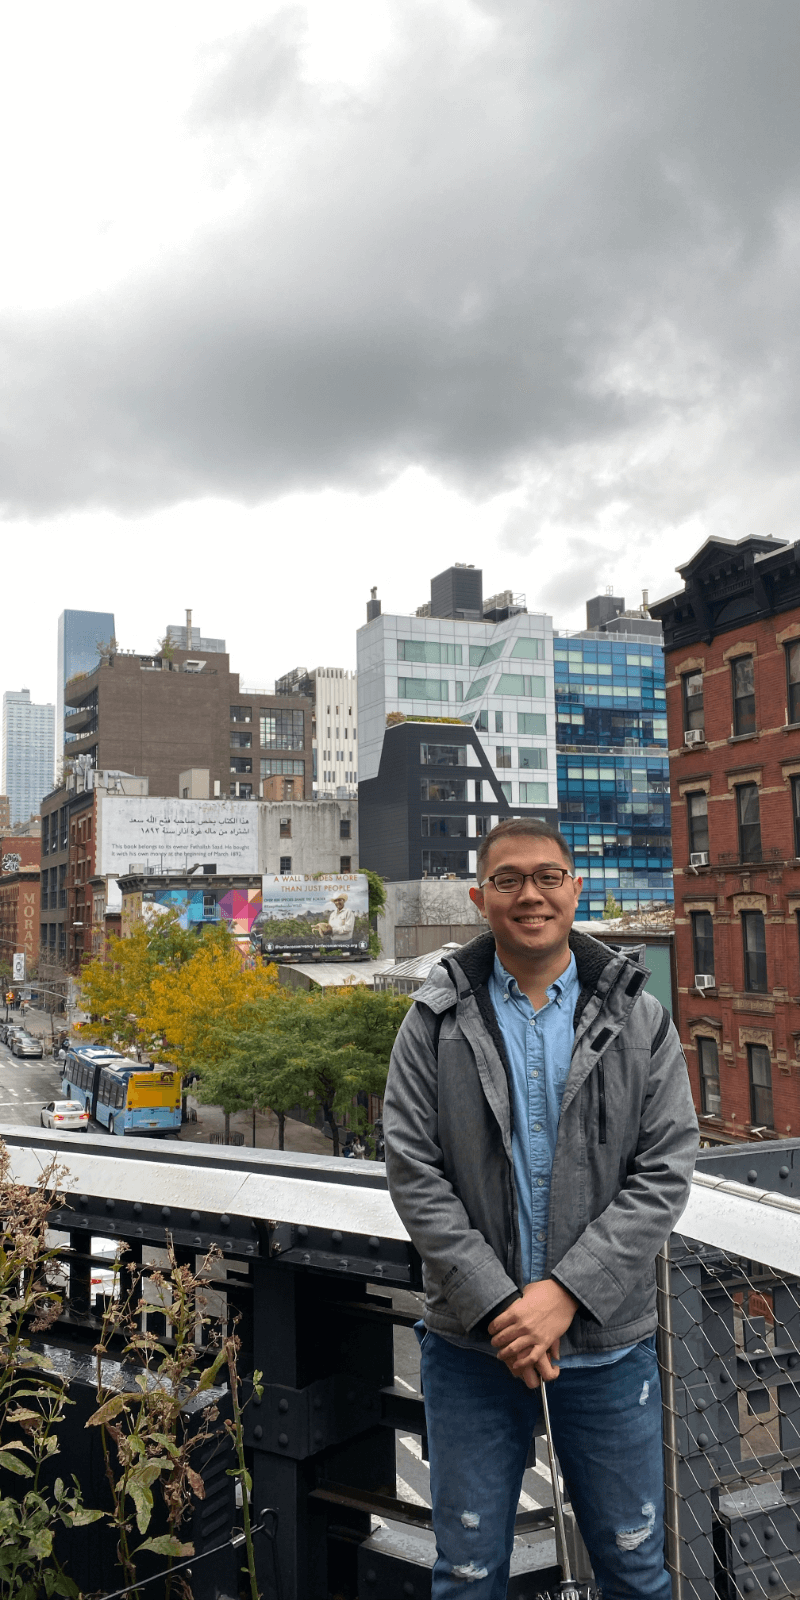
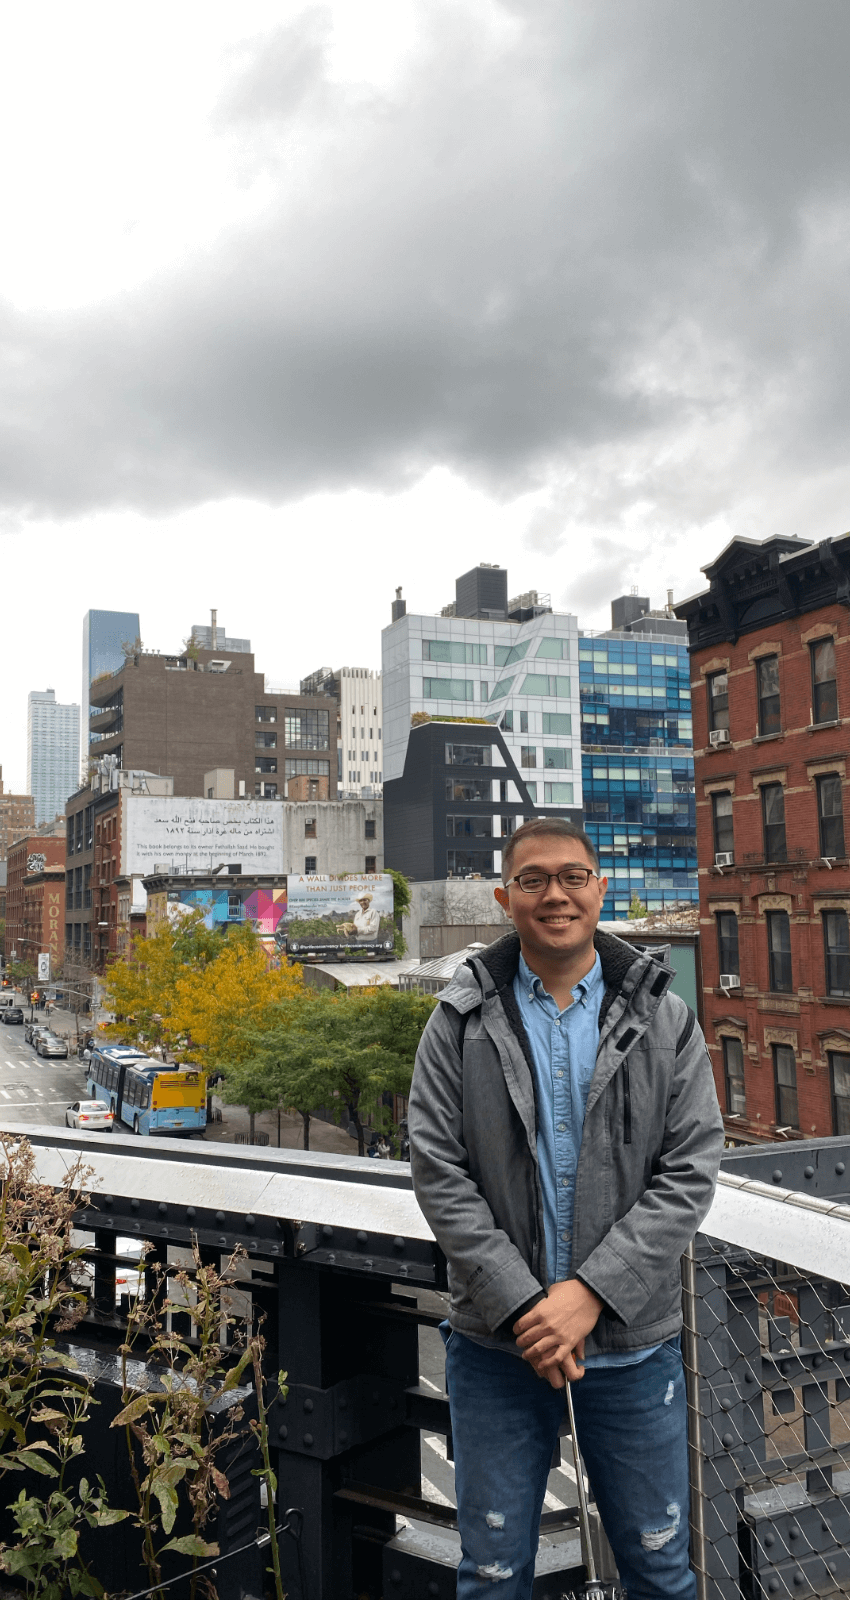
make it better

diff --git a/src/Assets/css/styles.min.css b/src/Assets/css/styles.min.css
@@ -1,1 +1,1 @@
-html{font-size:16px}body{font-family:Roboto,'Open Sans',sans-serif}a{text-decoration-line:none;cursor:pointer}@media all and (min-width:1680px){h1{font-size:4.5rem}}@media all and (min-width:1480px) and (max-width:1680px){h1{font-size:4.5rem}}@media all and (max-width:1480px){h1{font-size:3rem}}@media all and (min-width:1680px){h2{font-size:3.5rem}}@media all and (min-width:1480px) and (max-width:1680px){h2{font-size:3.5rem}}@media all and (max-width:1480px){h2{font-size:2.25rem}}@media all and (min-width:1680px){h3{font-size:2.3rem}}@media all and (min-width:1480px) and (max-width:1680px){h3{font-size:2.3rem}}@media all and (max-width:1480px){h3{font-size:1.75rem}}@media all and (min-width:1680px){h4{font-size:1.8rem}}@media all and (min-width:1480px) and (max-width:1680px){h4{font-size:1.8rem}}@media all and (max-width:1480px){h4{font-size:1.125rem}}@media all and (min-width:1680px){p{font-size:1rem}}@media all and (min-width:1480px) and (max-width:1680px){p{font-size:1rem}}@media all and (max-width:1480px){p{font-size:1rem}}.basicBtn{color:#fff;background:#000;padding:15px 60px;border:2px solid #000;font-size:20px;-webkit-transition:.2s ease;-moz-transition:.2s ease;transition:.2s ease}.basicBtn:hover{color:#fff;background:#000;color:#000;background:#fff}.basicBtn_reverse{color:#000;background:#fff;padding:15px 60px;border:2px solid #000;font-size:20px;-webkit-transition:.2s ease;-moz-transition:.2s ease;transition:.2s ease}.basicBtn_reverse:hover{color:#000;background:#fff;color:#fff;background:#000}.spinner{animation:rotator 1.4s linear infinite}@keyframes rotator{0%{transform:rotate(0)}100%{transform:rotate(270deg)}}.path{stroke-dasharray:187;stroke-dashoffset:0;transform-origin:center;animation:dash 1.4s ease-in-out infinite,colors 5.6s ease-in-out infinite}@keyframes colors{0%{stroke:#4285f4}25%{stroke:#de3e35}50%{stroke:#f7c223}75%{stroke:#1b9a59}100%{stroke:#4285f4}}@keyframes dash{0%{stroke-dashoffset:187}50%{stroke-dashoffset:46.75;transform:rotate(135deg)}100%{stroke-dashoffset:187;transform:rotate(450deg)}}.loading{height:100vh;display:flex;align-items:center;justify-content:center}.notFound{height:calc(100vh - 200px);display:flex;align-items:center;justify-content:center}html{font-size:16px}body{font-family:Roboto,'Open Sans',sans-serif}a{text-decoration-line:none;cursor:pointer}@media all and (min-width:1680px){h1{font-size:4.5rem}}@media all and (min-width:1480px) and (max-width:1680px){h1{font-size:4.5rem}}@media all and (max-width:1480px){h1{font-size:3rem}}@media all and (min-width:1680px){h2{font-size:3.5rem}}@media all and (min-width:1480px) and (max-width:1680px){h2{font-size:3.5rem}}@media all and (max-width:1480px){h2{font-size:2.25rem}}@media all and (min-width:1680px){h3{font-size:2.3rem}}@media all and (min-width:1480px) and (max-width:1680px){h3{font-size:2.3rem}}@media all and (max-width:1480px){h3{font-size:1.75rem}}@media all and (min-width:1680px){h4{font-size:1.8rem}}@media all and (min-width:1480px) and (max-width:1680px){h4{font-size:1.8rem}}@media all and (max-width:1480px){h4{font-size:1.125rem}}@media all and (min-width:1680px){p{font-size:1rem}}@media all and (min-width:1480px) and (max-width:1680px){p{font-size:1rem}}@media all and (max-width:1480px){p{font-size:1rem}}.header{display:flex;flex-direction:row;height:100vh;width:100%}.header .header-left{display:flex;flex-direction:row}@media all and (min-width:1680px){.header .header-left{width:calc(100% - 1100px)}}@media all and (min-width:1480px) and (max-width:1680px){.header .header-left{width:calc(100% - 900px)}}@media all and (max-width:1480px){.header .header-left{width:calc(100% - 620px)}}.header .header-left .header-left-left{display:flex;flex-direction:column;align-items:flex-start;justify-content:space-between;font-family:'Playfair Display',serif}@media all and (min-width:1680px){.header .header-left .header-left-left{padding:60px 0 60px 60px}}@media all and (min-width:1480px) and (max-width:1680px){.header .header-left .header-left-left{padding:60px 0 60px 60px}}@media all and (max-width:1480px){.header .header-left .header-left-left{padding:30px 0 30px 30px}}.header .header-left .header-left-left .detail h1{margin:0;letter-spacing:5px}.header .header-left .header-left-left .detail h4{margin:10px 0}.header .header-left .header-left-left .logo{width:100px;height:100px}.header .header-left .header-left-left .welcome h1{margin:10px 0;letter-spacing:5px}.header .header-left .header-left-left .welcome h4{margin:10px 0}.header .header-left .header-left-left .basicBtn,.header .header-left .header-left-left .basicBtn_reverse{display:inline-block;margin-top:10px}.header .header-left .header-left-left .btn-group{display:flex;flex-direction:row}.header .header-left .header-left-left .btn-group a{margin-right:15px}.header .header-right{font-family:'Ibarra Real Nova',serif;display:flex;flex-direction:row}@media all and (min-width:1680px){.header .header-right{width:1100px}}@media all and (min-width:1480px) and (max-width:1680px){.header .header-right{width:900px}}@media all and (max-width:1480px){.header .header-right{width:620px}}.header .header-right .header-right-left{height:100vh;display:flex;flex-direction:column;justify-content:center;align-items:center}@media all and (min-width:1680px){.header .header-right .header-right-left{width:160px}}@media all and (min-width:1480px) and (max-width:1680px){.header .header-right .header-right-left{width:130px}}@media all and (max-width:1480px){.header .header-right .header-right-left{width:100px}}.header .header-right .header-right-left .developer{font-weight:700;font-family:'Playfair Display',serif;color:#f0f0f0;transform:rotate(-90deg);margin:0;letter-spacing:10px}@media all and (min-width:1680px){.header .header-right .header-right-left .developer{font-size:140px}}@media all and (min-width:1480px) and (max-width:1680px){.header .header-right .header-right-left .developer{font-size:120px}}@media all and (max-width:1480px){.header .header-right .header-right-left .developer{font-size:100px}}.header .header-right .me{height:99%;margin-top:.5%}.header .header-right .name{display:flex;align-items:center;justify-content:center}@media all and (min-width:1680px){.header .header-right .name{width:100%}}@media all and (min-width:1480px) and (max-width:1680px){.header .header-right .name{width:100%}}@media all and (max-width:1480px){.header .header-right .name{width:100%}}.header .header-right .name p{color:#000;font-size:40px;transform:rotate(90deg)}.professional{display:flex;flex-direction:column;align-items:center;width:100%;font-family:'Playfair Display',serif}.professional h1{font-size:60px;letter-spacing:5px}.professional .professional-section{width:100%;display:flex;flex-direction:row;flex-wrap:wrap}.professional .professional-section .professional-part{box-sizing:border-box;position:relative;width:42.5%;box-shadow:0 10px 20px rgba(0,0,0,.103),0 6px 6px rgba(0,0,0,.164);padding:60px;margin-bottom:60px;margin-left:5%}.professional .professional-section .professional-part span{position:absolute;top:-25px;left:-25px}.professional .professional-section .professional-part span img{width:50px;-webkit-transition:.4s ease;-moz-transition:.4s ease;transition:.4s ease}.professional .professional-section .professional-part span img:hover{opacity:.7}.professional .professional-section .professional-part .company-detail{display:flex;flex-direction:row;justify-content:space-between}.professional .professional-section .professional-part h1{font-size:36px;margin:0}.professional .professional-section .professional-part h3{font-size:20px;color:#b9b9b9;margin:0}@media all and (min-width:1680px){.professional .professional-section .professional-part .works{width:400px}}@media all and (min-width:1480px) and (max-width:1680px){.professional .professional-section .professional-part .works{width:400px}}@media all and (max-width:1480px){.professional .professional-section .professional-part .works{width:300px}}@media all and (min-width:1680px){.professional .professional-section .professional-part .works-mobile{width:180px}}@media all and (min-width:1480px) and (max-width:1680px){.professional .professional-section .professional-part .works-mobile{width:180px}}@media all and (max-width:1480px){.professional .professional-section .professional-part .works-mobile{width:150px}}@media all and (min-width:1680px){.professional .professional-section .professional-part .works-big{width:700px}}@media all and (min-width:1480px) and (max-width:1680px){.professional .professional-section .professional-part .works-big{width:550px}}@media all and (max-width:1480px){.professional .professional-section .professional-part .works-big{width:450px}}.professional .professional-section .professional-part .image{display:flex;align-items:center;justify-content:center;height:450px}.academic{display:flex;box-sizing:border-box;flex-direction:column;align-items:center;width:100%;font-family:'Playfair Display',serif;padding:0 5%}.academic h1{font-size:36px;letter-spacing:5px}.academic .academic-section{column-count:2;column-gap:5%;width:100%}.academic .academic-section .academic-part{display:inline-block;width:100%;box-sizing:border-box;padding:60px 50px 50px 50px;border:2px solid #000;margin-bottom:60px;position:relative}.academic .academic-section .academic-part .school-detail{display:flex;flex-direction:row;justify-content:space-between;color:#979696}@media all and (min-width:1680px){.academic .academic-section .academic-part .aca-image{display:flex;flex-direction:row;align-items:center;justify-content:space-around;margin:60px 0}}@media all and (min-width:1480px) and (max-width:1680px){.academic .academic-section .academic-part .aca-image{display:flex;flex-direction:row;align-items:center;justify-content:space-around;margin:60px 0}}@media all and (max-width:1480px){.academic .academic-section .academic-part .aca-image{display:flex;flex-direction:column;align-items:center;justify-content:space-around;margin:60px 0}}.academic .academic-section .academic-part .aca-title{position:absolute;top:-2px;left:-2px;margin:0;background:#fff;z-index:999;padding-left:70px}.academic .academic-section .academic-part .aca-title:before{content:"";position:absolute;height:100%;width:50px;background:#000;left:0}.academic .academic-section .academic-part .image-aca{width:400px}.academic .academic-section .academic-part .image-aca-mobile{width:180px}@media all and (min-width:1680px){.academic .academic-section .academic-part .image-aca-mobile{width:180px}}@media all and (min-width:1480px) and (max-width:1680px){.academic .academic-section .academic-part .image-aca-mobile{width:180px}}@media all and (max-width:1480px){.academic .academic-section .academic-part .image-aca-mobile{width:180px;margin-top:60px}}.academic .academic-section .academic-part .aca-link{float:right}.academic .academic-section .academic-part .aca-link img{margin-right:20px;width:50px;-webkit-transition:.4s ease;-moz-transition:.4s ease;transition:.4s ease}.academic .academic-section .academic-part .aca-link img:hover{opacity:.7}
+html{font-size:16px}body{font-family:Roboto,'Open Sans',sans-serif}a{text-decoration-line:none;cursor:pointer}@media all and (min-width:1680px){h1{font-size:4.5rem}}@media all and (min-width:1480px) and (max-width:1680px){h1{font-size:4.5rem}}@media all and (max-width:1480px){h1{font-size:3rem}}@media all and (min-width:1680px){h2{font-size:3.5rem}}@media all and (min-width:1480px) and (max-width:1680px){h2{font-size:3.5rem}}@media all and (max-width:1480px){h2{font-size:2.25rem}}@media all and (min-width:1680px){h3{font-size:2.3rem}}@media all and (min-width:1480px) and (max-width:1680px){h3{font-size:2.3rem}}@media all and (max-width:1480px){h3{font-size:1.75rem}}@media all and (min-width:1680px){h4{font-size:1.8rem}}@media all and (min-width:1480px) and (max-width:1680px){h4{font-size:1.8rem}}@media all and (max-width:1480px){h4{font-size:1.125rem}}@media all and (min-width:1680px){p{font-size:1rem}}@media all and (min-width:1480px) and (max-width:1680px){p{font-size:1rem}}@media all and (max-width:1480px){p{font-size:1rem}}.basicBtn{color:#fff;background:#000;padding:15px 60px;border:2px solid #000;font-size:20px;-webkit-transition:.2s ease;-moz-transition:.2s ease;transition:.2s ease}.basicBtn:hover{color:#fff;background:#000;color:#000;background:#fff}.basicBtn_reverse{color:#000;background:#fff;padding:15px 60px;border:2px solid #000;font-size:20px;-webkit-transition:.2s ease;-moz-transition:.2s ease;transition:.2s ease}.basicBtn_reverse:hover{color:#000;background:#fff;color:#fff;background:#000}.spinner{animation:rotator 1.4s linear infinite}@keyframes rotator{0%{transform:rotate(0)}100%{transform:rotate(270deg)}}.path{stroke-dasharray:187;stroke-dashoffset:0;transform-origin:center;animation:dash 1.4s ease-in-out infinite,colors 5.6s ease-in-out infinite}@keyframes colors{0%{stroke:#4285f4}25%{stroke:#de3e35}50%{stroke:#f7c223}75%{stroke:#1b9a59}100%{stroke:#4285f4}}@keyframes dash{0%{stroke-dashoffset:187}50%{stroke-dashoffset:46.75;transform:rotate(135deg)}100%{stroke-dashoffset:187;transform:rotate(450deg)}}.loading{height:100vh;display:flex;align-items:center;justify-content:center}.notFound{height:calc(100vh - 200px);display:flex;align-items:center;justify-content:center}html{font-size:16px}body{font-family:Roboto,'Open Sans',sans-serif}a{text-decoration-line:none;cursor:pointer}@media all and (min-width:1680px){h1{font-size:4.5rem}}@media all and (min-width:1480px) and (max-width:1680px){h1{font-size:4.5rem}}@media all and (max-width:1480px){h1{font-size:3rem}}@media all and (min-width:1680px){h2{font-size:3.5rem}}@media all and (min-width:1480px) and (max-width:1680px){h2{font-size:3.5rem}}@media all and (max-width:1480px){h2{font-size:2.25rem}}@media all and (min-width:1680px){h3{font-size:2.3rem}}@media all and (min-width:1480px) and (max-width:1680px){h3{font-size:2.3rem}}@media all and (max-width:1480px){h3{font-size:1.75rem}}@media all and (min-width:1680px){h4{font-size:1.8rem}}@media all and (min-width:1480px) and (max-width:1680px){h4{font-size:1.8rem}}@media all and (max-width:1480px){h4{font-size:1.125rem}}@media all and (min-width:1680px){p{font-size:1rem}}@media all and (min-width:1480px) and (max-width:1680px){p{font-size:1rem}}@media all and (max-width:1480px){p{font-size:1rem}}.header{display:flex;flex-direction:row;height:100vh;width:100%}.header .header-left{display:flex;flex-direction:row}@media all and (min-width:1680px){.header .header-left{width:calc(100% - 1100px)}}@media all and (min-width:1480px) and (max-width:1680px){.header .header-left{width:calc(100% - 900px)}}@media all and (max-width:1480px){.header .header-left{width:calc(100% - 650px)}}.header .header-left .header-left-left{display:flex;flex-direction:column;align-items:flex-start;justify-content:space-between;font-family:'Playfair Display',serif}@media all and (min-width:1680px){.header .header-left .header-left-left{padding:60px 0 60px 60px}}@media all and (min-width:1480px) and (max-width:1680px){.header .header-left .header-left-left{padding:60px 0 60px 60px}}@media all and (max-width:1480px){.header .header-left .header-left-left{padding:30px 0 30px 30px}}.header .header-left .header-left-left .detail h1{margin:0;letter-spacing:5px}.header .header-left .header-left-left .detail h4{margin:10px 0}.header .header-left .header-left-left .logo{width:100px;height:100px}.header .header-left .header-left-left .welcome h1{margin:10px 0;letter-spacing:5px}.header .header-left .header-left-left .welcome h4{margin:10px 0}.header .header-left .header-left-left .basicBtn,.header .header-left .header-left-left .basicBtn_reverse{display:inline-block;margin-top:10px}.header .header-left .header-left-left .btn-group{display:flex;flex-direction:row}.header .header-left .header-left-left .btn-group a{margin-right:15px}.header .header-right{font-family:'Ibarra Real Nova',serif;display:flex;flex-direction:row}@media all and (min-width:1680px){.header .header-right{width:1100px}}@media all and (min-width:1480px) and (max-width:1680px){.header .header-right{width:900px}}@media all and (max-width:1480px){.header .header-right{width:650px}}.header .header-right .header-right-left{height:100vh;display:flex;flex-direction:column;justify-content:center;align-items:center}@media all and (min-width:1680px){.header .header-right .header-right-left{width:160px}}@media all and (min-width:1480px) and (max-width:1680px){.header .header-right .header-right-left{width:130px}}@media all and (max-width:1480px){.header .header-right .header-right-left{width:100px}}.header .header-right .header-right-left .developer{font-weight:700;font-family:'Playfair Display',serif;color:#f0f0f0;transform:rotate(-90deg);margin:0;letter-spacing:10px}@media all and (min-width:1680px){.header .header-right .header-right-left .developer{font-size:140px}}@media all and (min-width:1480px) and (max-width:1680px){.header .header-right .header-right-left .developer{font-size:120px}}@media all and (max-width:1480px){.header .header-right .header-right-left .developer{font-size:100px}}.header .header-right .me{height:99%;margin-top:.5%}.header .header-right .name{display:flex;align-items:center;justify-content:center}@media all and (min-width:1680px){.header .header-right .name{width:100%}}@media all and (min-width:1480px) and (max-width:1680px){.header .header-right .name{width:100%}}@media all and (max-width:1480px){.header .header-right .name{width:100%}}.header .header-right .name p{color:#000;font-size:40px;transform:rotate(90deg)}.professional{display:flex;flex-direction:column;align-items:center;width:100%;font-family:'Playfair Display',serif}.professional h1{font-size:60px;letter-spacing:5px}.professional .professional-section{width:100%;display:flex;flex-direction:row;flex-wrap:wrap}.professional .professional-section .professional-part{box-sizing:border-box;position:relative;width:42.5%;box-shadow:0 10px 20px rgba(0,0,0,.103),0 6px 6px rgba(0,0,0,.164);padding:60px;margin-bottom:60px;margin-left:5%}.professional .professional-section .professional-part span{position:absolute;top:-25px;left:-25px}.professional .professional-section .professional-part span img{width:50px;-webkit-transition:.4s ease;-moz-transition:.4s ease;transition:.4s ease}.professional .professional-section .professional-part span img:hover{opacity:.7}.professional .professional-section .professional-part .company-detail{display:flex;flex-direction:row;justify-content:space-between}.professional .professional-section .professional-part h1{font-size:36px;margin:0}.professional .professional-section .professional-part h3{font-size:20px;color:#b9b9b9;margin:0}@media all and (min-width:1680px){.professional .professional-section .professional-part .works{width:400px}}@media all and (min-width:1480px) and (max-width:1680px){.professional .professional-section .professional-part .works{width:400px}}@media all and (max-width:1480px){.professional .professional-section .professional-part .works{width:300px}}@media all and (min-width:1680px){.professional .professional-section .professional-part .works-mobile{width:180px}}@media all and (min-width:1480px) and (max-width:1680px){.professional .professional-section .professional-part .works-mobile{width:180px}}@media all and (max-width:1480px){.professional .professional-section .professional-part .works-mobile{width:150px}}@media all and (min-width:1680px){.professional .professional-section .professional-part .works-big{width:700px}}@media all and (min-width:1480px) and (max-width:1680px){.professional .professional-section .professional-part .works-big{width:550px}}@media all and (max-width:1480px){.professional .professional-section .professional-part .works-big{width:450px}}.professional .professional-section .professional-part .image{display:flex;align-items:center;justify-content:center;height:450px}.academic{display:flex;box-sizing:border-box;flex-direction:column;align-items:center;width:100%;font-family:'Playfair Display',serif;padding:0 5%}.academic h1{font-size:36px;letter-spacing:5px}.academic .academic-section{column-count:2;column-gap:5%;width:100%}.academic .academic-section .academic-part{display:inline-block;width:100%;box-sizing:border-box;padding:60px 50px 50px 50px;border:2px solid #000;margin-bottom:60px;position:relative}.academic .academic-section .academic-part .school-detail{display:flex;flex-direction:row;justify-content:space-between;color:#979696}@media all and (min-width:1680px){.academic .academic-section .academic-part .aca-image{display:flex;flex-direction:row;align-items:center;justify-content:space-around;margin:60px 0}}@media all and (min-width:1480px) and (max-width:1680px){.academic .academic-section .academic-part .aca-image{display:flex;flex-direction:row;align-items:center;justify-content:space-around;margin:60px 0}}@media all and (max-width:1480px){.academic .academic-section .academic-part .aca-image{display:flex;flex-direction:column;align-items:center;justify-content:space-around;margin:60px 0}}.academic .academic-section .academic-part .aca-title{position:absolute;top:-2px;left:-2px;margin:0;background:#fff;z-index:999;padding-left:70px}.academic .academic-section .academic-part .aca-title:before{content:"";position:absolute;height:100%;width:50px;background:#000;left:0}.academic .academic-section .academic-part .image-aca{width:400px}.academic .academic-section .academic-part .image-aca-mobile{width:180px}@media all and (min-width:1680px){.academic .academic-section .academic-part .image-aca-mobile{width:180px}}@media all and (min-width:1480px) and (max-width:1680px){.academic .academic-section .academic-part .image-aca-mobile{width:180px}}@media all and (max-width:1480px){.academic .academic-section .academic-part .image-aca-mobile{width:180px;margin-top:60px}}.academic .academic-section .academic-part .aca-link{float:right}.academic .academic-section .academic-part .aca-link img{margin-right:20px;width:50px;-webkit-transition:.4s ease;-moz-transition:.4s ease;transition:.4s ease}.academic .academic-section .academic-part .aca-link img:hover{opacity:.7}

diff --git a/src/Assets/css/styles.css b/src/Assets/css/styles.css
@@ -241,7 +241,7 @@ a {
         width: calc(100% - 900px); } }
     @media all and (max-width: 1480px) {
       .header .header-left {
-        width: calc(100% - 620px); } }
+        width: calc(100% - 650px); } }
     .header .header-left .header-left-left {
       display: flex;
       flex-direction: column;
@@ -290,7 +290,7 @@ a {
         width: 900px; } }
     @media all and (max-width: 1480px) {
       .header .header-right {
-        width: 620px; } }
+        width: 650px; } }
     .header .header-right .header-right-left {
       height: 100vh;
       display: flex;

diff --git a/src/header.js b/src/header.js
@@ -55,7 +55,7 @@ class Header extends Component {
                       media="(min-width: 1199px) and (max-width: 1479px)" 
                       className="me" 
                       
-                      srcSet={me2}/>
+                      srcSet={me3}/>
                     <source 
                       media="(min-width: 1480px) and (max-width: 1679px)" 
                       className="me" 

diff --git a/src/Assets/scss/landingPage.scss b/src/Assets/scss/landingPage.scss
@@ -20,7 +20,7 @@
         }
    
         @include xl-width{
-            width:calc(100% - 620px);
+            width:calc(100% - 650px);
         }
         .header-left-left{
             display: flex;
@@ -99,7 +99,7 @@
         }
    
         @include xl-width{
-            width:620px;
+            width:650px;
         }
         .header-right-left{
             height:100vh;
